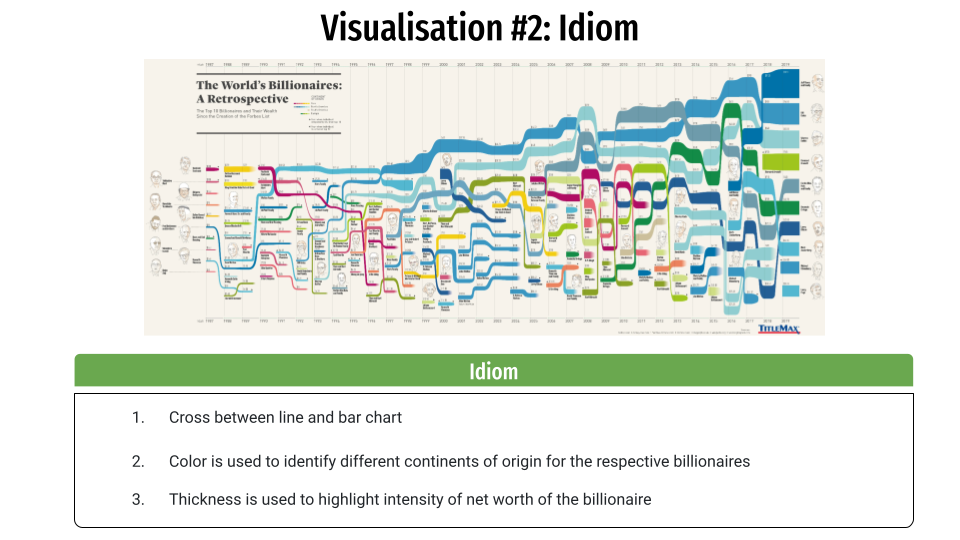
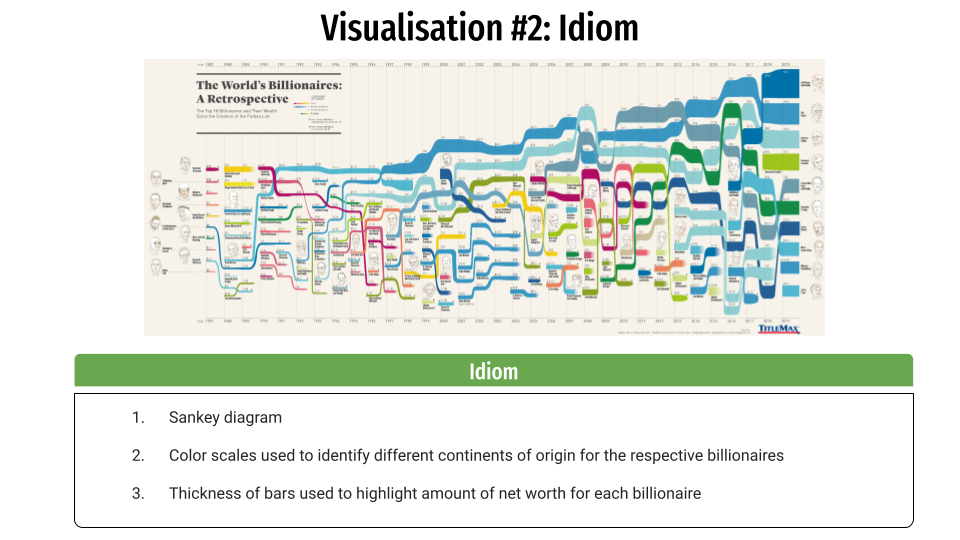
Corrected chart types

Changed region(s): [[0.125, 0.8296, 0.8125, 0.9481], [0.1875, 0.7407, 0.4062, 0.8], [0.125, 0.9185, 0.1562, 0.9481]]

diff --git a/index.html b/index.html
@@ -113,11 +113,11 @@
                         <tr>
                             <td>Idiom (How)</td>
                             <td>
-                                <p>The visualisation is represented as a line graph mixed with a scatterplot where each
-                                    point is connected via a line. Colours are used as an identity channel to uniquely
-                                    identify the different categories (Countries), while size (Thickness of the lines)
-                                    is used to highlight the intensity of the average number of deaths per day (a
-                                    thicker line represents more deaths).</p>
+                                <p>The visualisation is represented as a connected scatterplot where each point is
+                                    connected via a line. Colours are used as an identity channel to uniquely identify
+                                    the different categories (Countries), while size (Thickness of the lines) is used to
+                                    highlight the intensity of the average number of deaths per day (a thicker line
+                                    represents more deaths).</p>
                             </td>
                         </tr>
                         <tr>
@@ -218,12 +218,12 @@
                         <tr>
                             <td>Idiom (How)</td>
                             <td>
-                                <p>The visualisation is represented as a cross between a line and a horizontal bar chart
-                                    with the x-axis representing the year and the y-axis representing the billionaire
-                                    involved. A colour scale is used as an identity channel to identify the different
-                                    continents and countries of origin for the respective billionaires, while
-                                    size (thickness of the bars) is used to highlight the amount of individual's net
-                                    worth (a thicker bar represents a higher net worth).</p>
+                                <p>The visualisation is represented as a sankey diagram with the x-axis representing the
+                                    year and the y-axis representing the billionaire involved. A colour scale is used as
+                                    an identity channel to identify the different continents and countries of origin for
+                                    the respective billionaires, while size (thickness of the bars) is used to highlight
+                                    the amount of individual's net worth (a thicker bar represents a higher net worth).
+                                </p>
                             </td>
                         </tr>
                         <tr>
